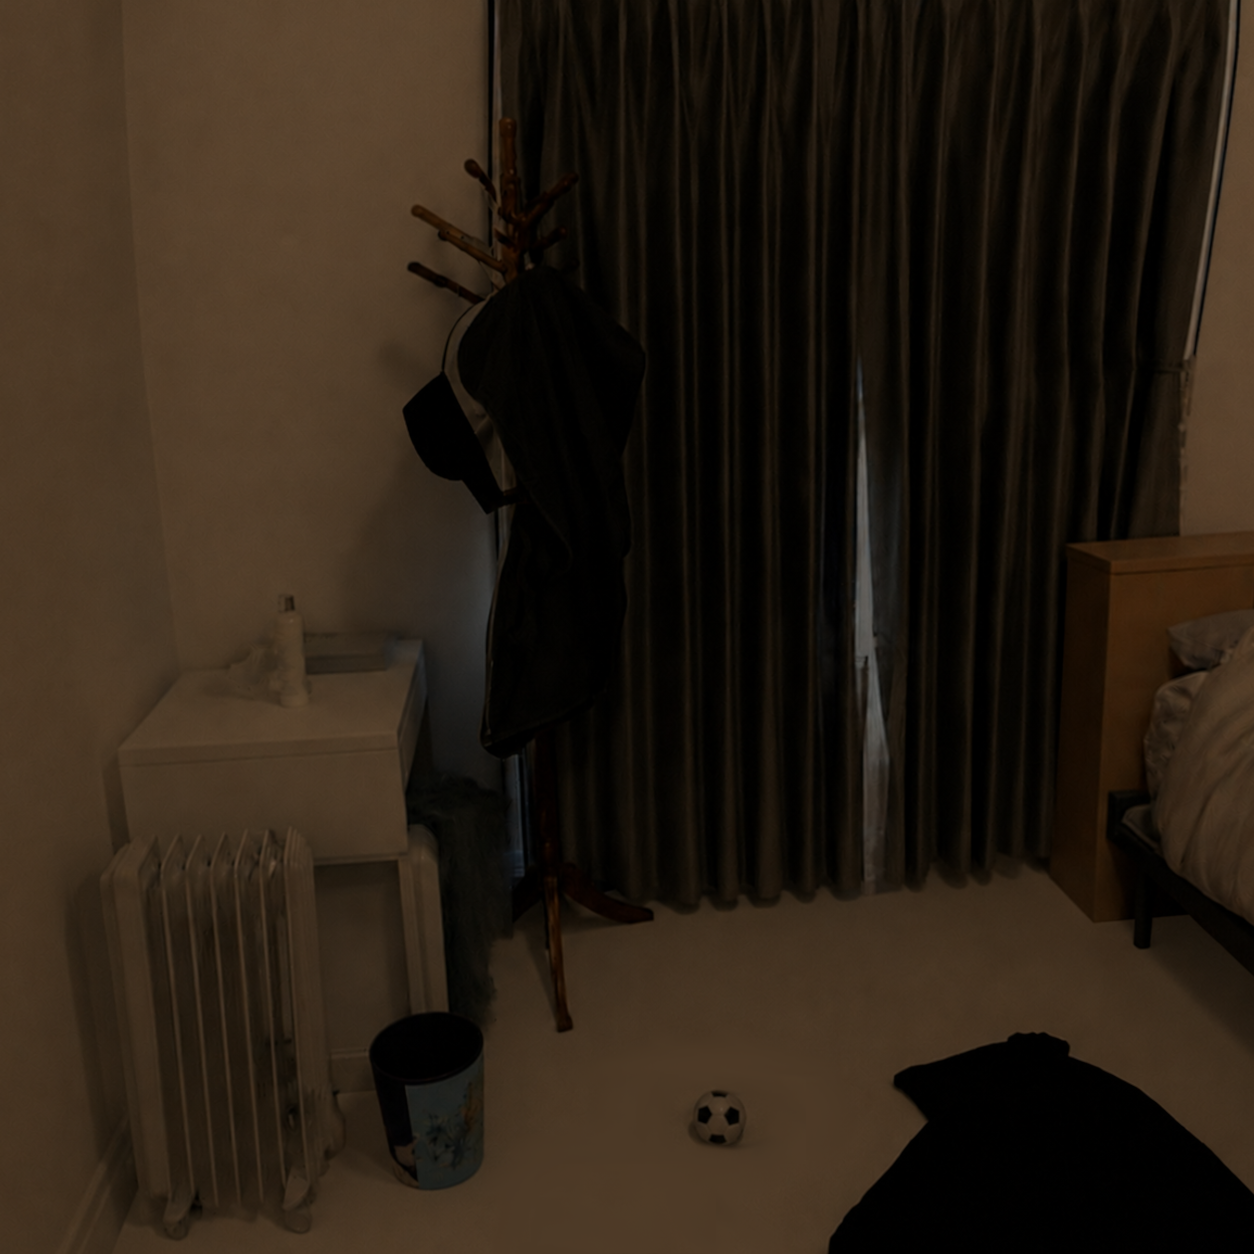
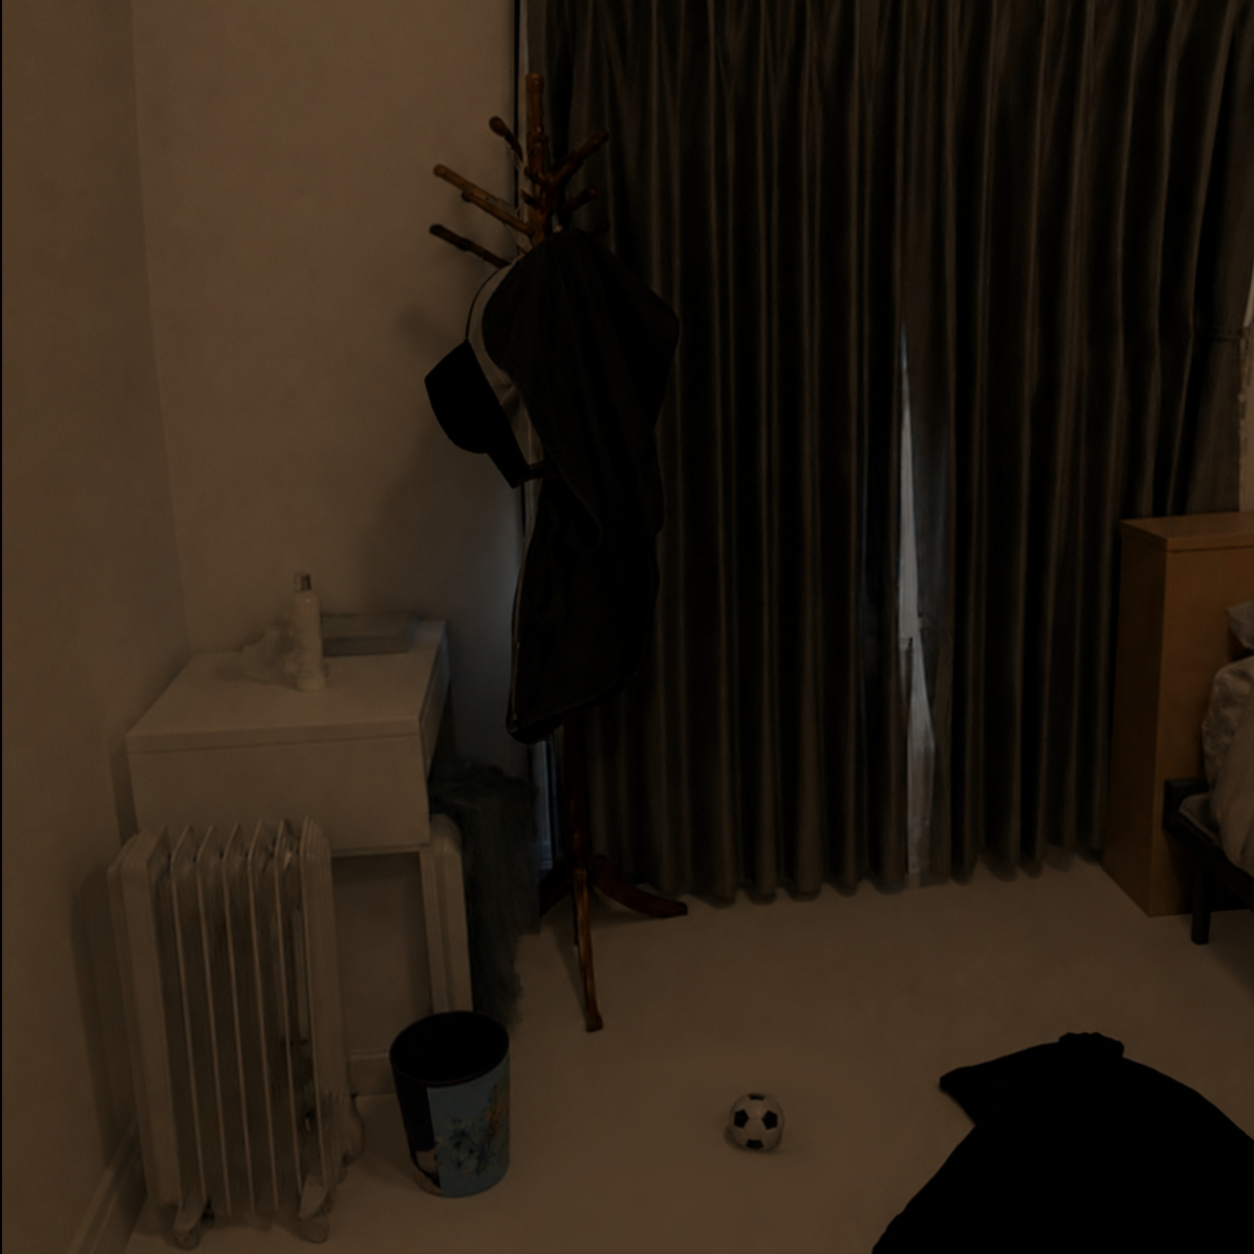
Adds more images, improves scripts

diff --git a/docs/two_view.md b/docs/two_view.md
@@ -1,0 +1,48 @@
+# Does GATOR Use the Reference View?
+
+## Visual Anagrams
+
+The method does not work for our task, but one could check the approach we tried [here](./visual_anagrams/README.md)
+
+## Identify with Visual Anagrams
+
+### Idea
+
+We need pictures `img1` and `img2` such that they both look realistic and `img1` can be transformed into `img2` by shuffling patches and that `img1` != `img2` (we shuffle non-equal patches).
+We notice that some parts of image can be more or less uniform (e.g. a wall or a table), and we can generate a small object (area of 1-4 patches) at this uniform position, such that after moving object patches at another place, the resulting image still would look realistic. 
+Let the first image is `img1` and the second image (after moving some patches) is `img2`. Let `img_s = reshuffle_patches(img1)`. 
+
+Then we would like the model output be:
+
+```python3
+gator(img_s, reference=img1) ≈ img1 
+gator(img_s, reference=img2) ≈ img2 
+```
+
+Then it means that our model utilizes the second view.
+
+### Dataset Collection
+
+We used ChatGPT to edit images, they are stored in [docs/diffusion_editing/images_edit](./images_edit/). We further process them in [GIMP](https://www.gimp.org) to ensure that after swapping patches the result look seamless. 
+
+### Evaluation
+
+After that we run `gator(img_s, reference=img1)` and `gator(img_s, reference=img2)` and calculate metrics (accuracy, mean distance to the correct position) using only patches containing the inserted object.
+
+One should run:
+
+```bash
+python3 gator/scripts/gator_multiview_usage/by_twin_images.py \
+    --ckpt-path /path/to/ckpt.pth \
+    --exp-name exp-name-used-to-produce-ckpt \
+    --dataset-config-path ./docs/diffusion_editing/twoview_check.yml 
+```
+
+The method would print the accuracy and save images after predicting correct positions.
+
+
+## Zeroing
+
+In this example we pass zeros instead of the reference image.
+
+...
